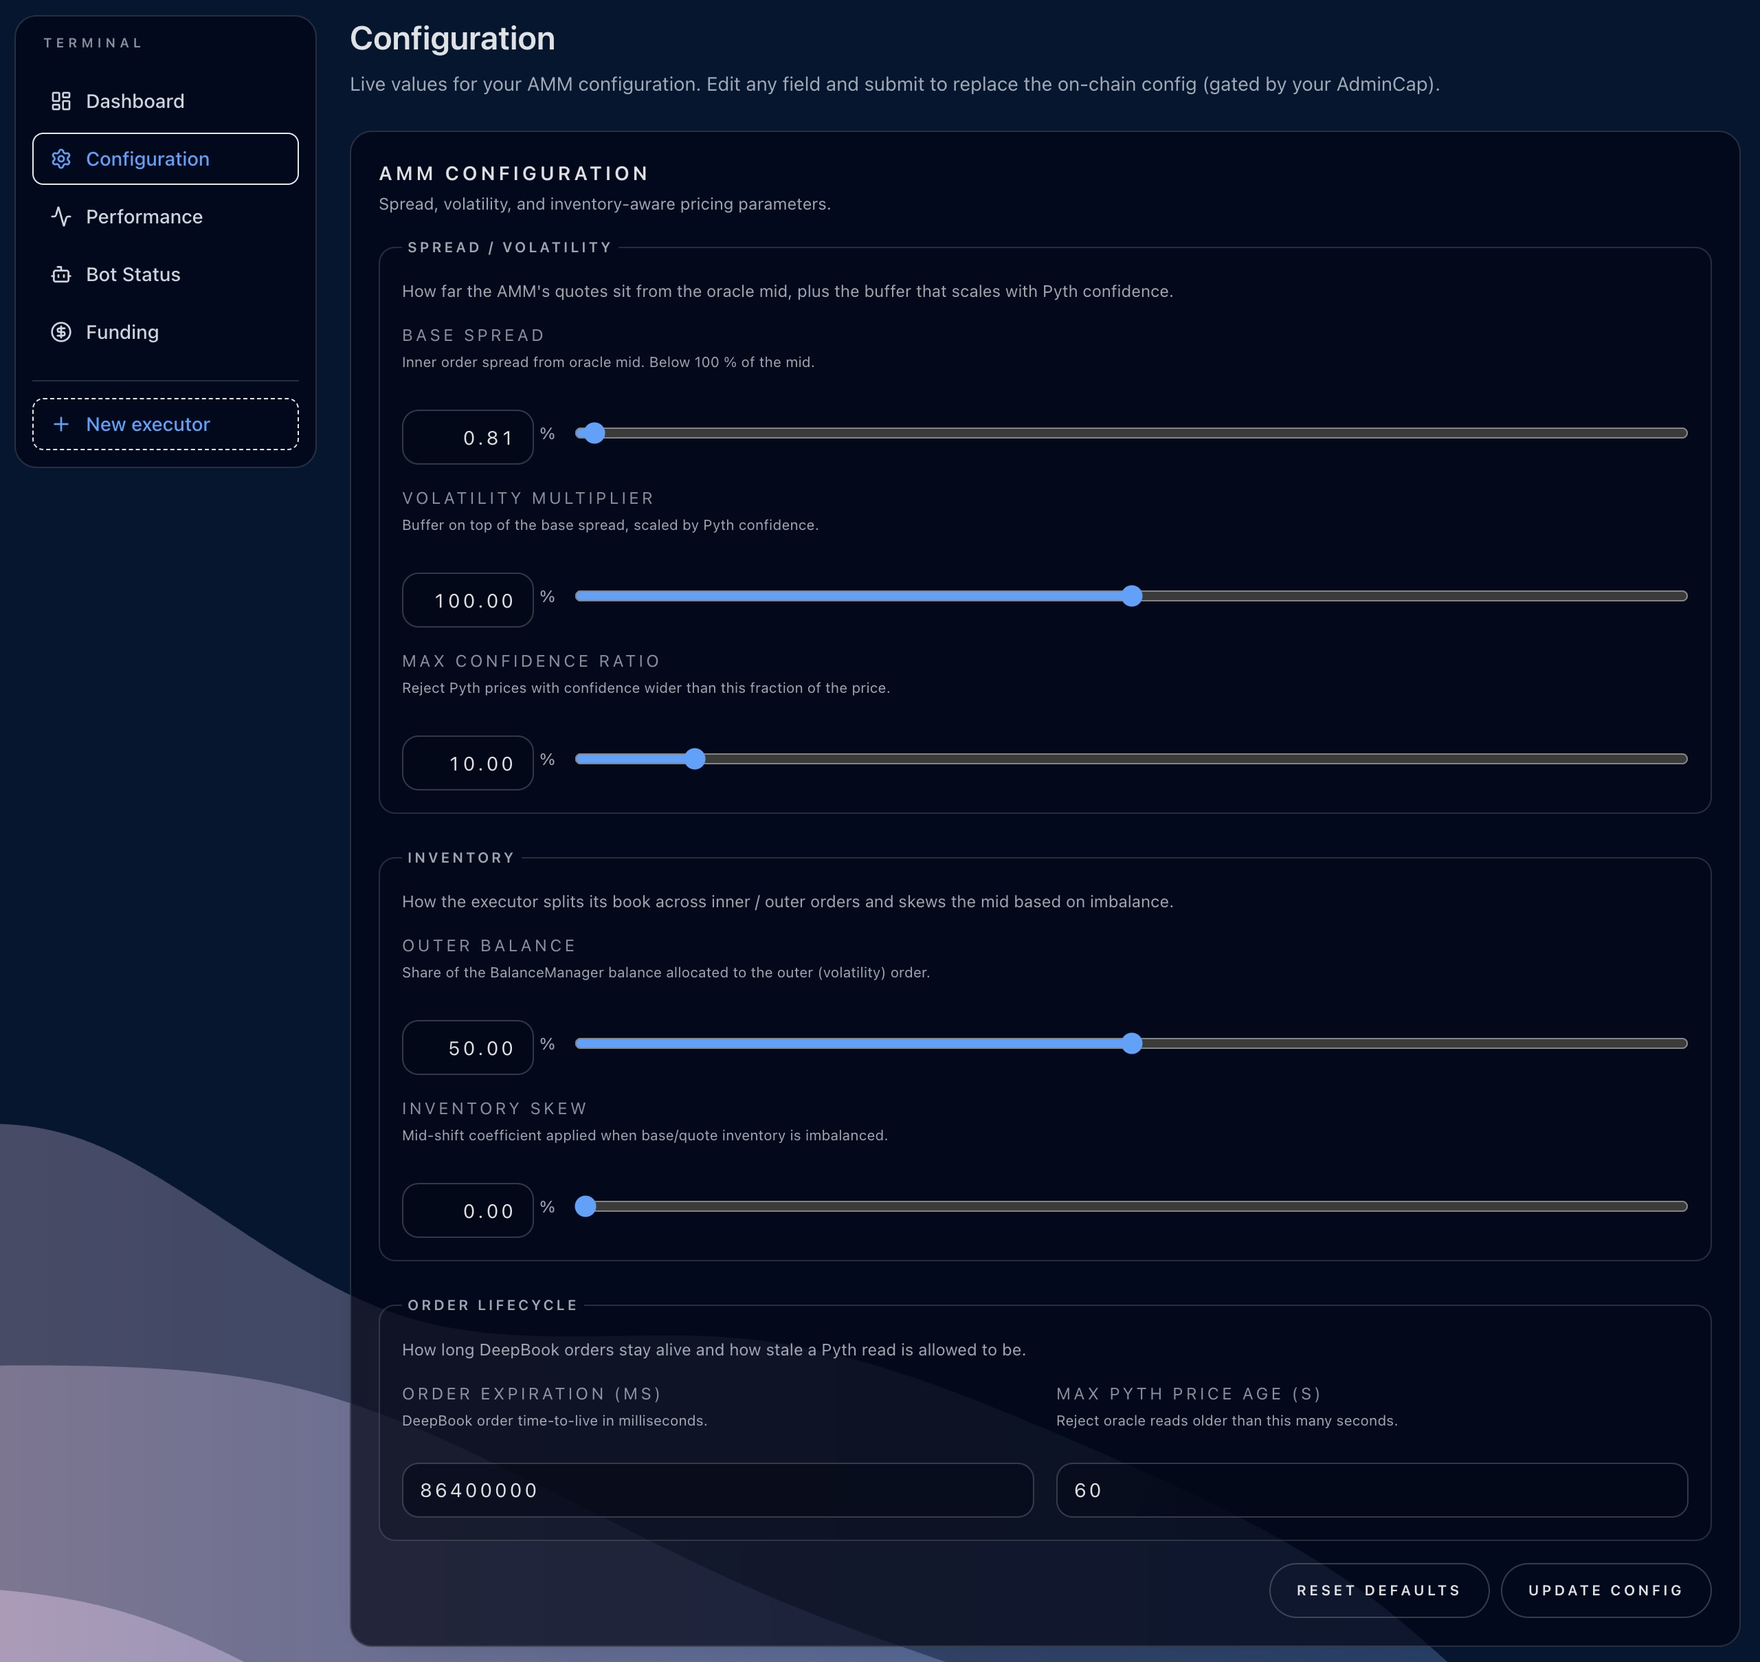
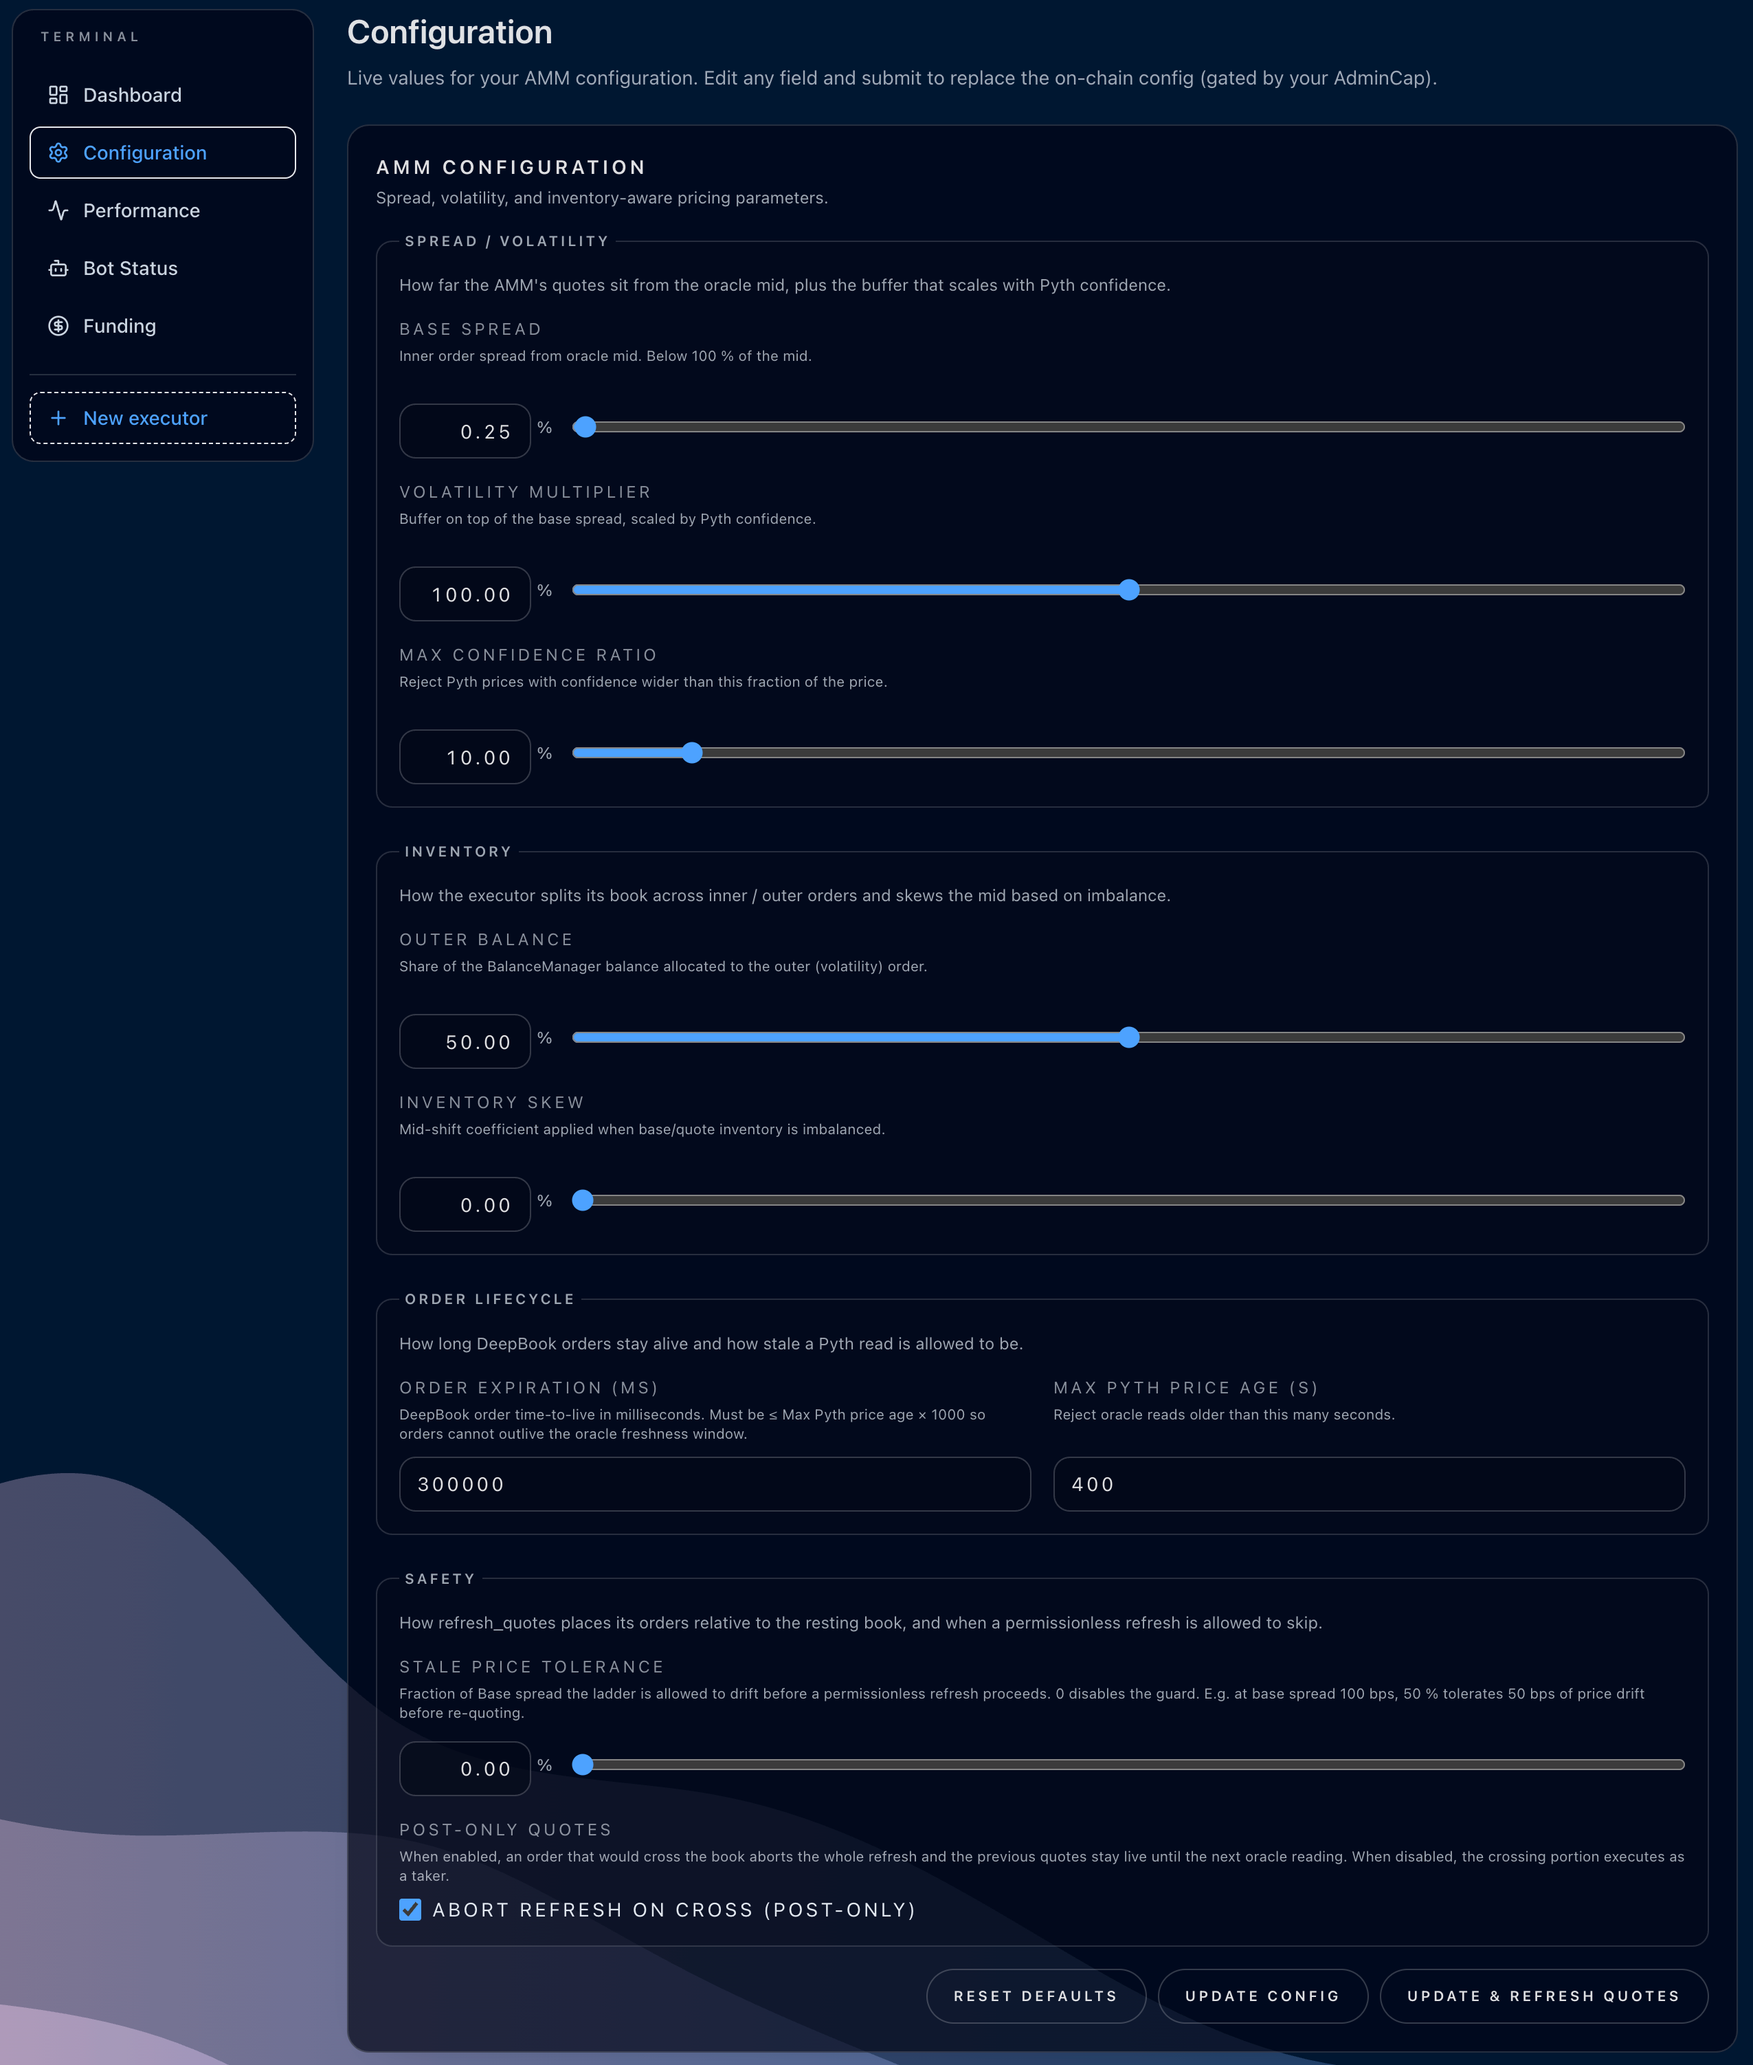
update docs and UI integration based on smart contract changes

diff --git a/packages/ui/src/app/helpers/ammConfigValidation.ts b/packages/ui/src/app/helpers/ammConfigValidation.ts
@@ -128,6 +128,36 @@ const validateField = (
   }
 }
 
+// Mirrors the Move-side `EOrderExpirationExceedsPriceAge` invariant in
+// `config::new`: order TTL must not exceed the oracle freshness window, or an
+// order can stay live priced against stale Pyth data.
+const validateOrderExpirationVsPriceAge = (
+  formState: AmmConfigFormState
+): { orderExpirationTimeMs?: string; maxPriceAgeSecs?: string } => {
+  try {
+    const orderExpirationTimeMs = parsePositiveU64(
+      formState.orderExpirationTimeMs.trim(),
+      "Order expiration time ms"
+    )
+    const maxPriceAgeSecs = parsePositiveU64(
+      formState.maxPriceAgeSecs.trim(),
+      "Max price age secs"
+    )
+    if (orderExpirationTimeMs > maxPriceAgeSecs * 1000n) {
+      const message = `Order expiration (${orderExpirationTimeMs.toString()} ms) must be ≤ Max price age × 1000 (${(maxPriceAgeSecs * 1000n).toString()} ms).`
+      return {
+        orderExpirationTimeMs: message,
+        maxPriceAgeSecs: message
+      }
+    }
+    return {}
+  } catch {
+    // Per-field validators already report the parse failure; skip the
+    // cross-field check until both inputs are individually valid.
+    return {}
+  }
+}
+
 export const buildAmmConfigFieldErrors = (
   formState: AmmConfigFormState
 ): AmmConfigFieldErrors => {
@@ -136,5 +166,14 @@ export const buildAmmConfigFieldErrors = (
     const error = validateField(key, formState[key])
     if (error) errors[key] = error
   }
+
+  const crossFieldErrors = validateOrderExpirationVsPriceAge(formState)
+  if (crossFieldErrors.orderExpirationTimeMs && !errors.orderExpirationTimeMs) {
+    errors.orderExpirationTimeMs = crossFieldErrors.orderExpirationTimeMs
+  }
+  if (crossFieldErrors.maxPriceAgeSecs && !errors.maxPriceAgeSecs) {
+    errors.maxPriceAgeSecs = crossFieldErrors.maxPriceAgeSecs
+  }
+
   return errors
 }

diff --git a/packages/ui/src/app/components/PriceChartCard.tsx b/packages/ui/src/app/components/PriceChartCard.tsx
@@ -296,10 +296,6 @@ const Sparkline = ({ points }: { points: SeriesPoint[] }) => {
   })
   if (currentSegment.length > 0) deepbookSegments.push(currentSegment.join(" "))
 
-  const lastDeepbookPoint = [...points]
-    .reverse()
-    .find((point) => point.deepbookValue !== undefined)
-
   // Build a band polygon for each contiguous run of points that has both an
   // ask (top) and bid (bottom) price defined. SVG polygons can't render gaps
   // so segments break wherever a side is missing (e.g. single-sided refresh).
@@ -446,9 +442,9 @@ const Sparkline = ({ points }: { points: SeriesPoint[] }) => {
               {points[lastIndex].oracleDisplay}
             </span>
           ) : undefined}
-          {isVisible("deepbook") && lastDeepbookPoint?.deepbookDisplay ? (
+          {isVisible("deepbook") && points[lastIndex].deepbookDisplay ? (
             <span className="font-semibold" style={{ color: DEEPBOOK_COLOR }}>
-              {lastDeepbookPoint.deepbookDisplay}
+              {points[lastIndex].deepbookDisplay}
             </span>
           ) : undefined}
         </div>

diff --git a/packages/domain/core/src/ptb/amm.ts b/packages/domain/core/src/ptb/amm.ts
@@ -315,6 +315,7 @@ export const buildUpdateConfigAndLocalnetRefreshTransaction = ({
   maxConfRatioBps,
   outerBalanceBps,
   inventorySkewBps,
+  stalePriceToleranceBps,
   postOnly
 }: {
   packageId: string
@@ -335,6 +336,7 @@ export const buildUpdateConfigAndLocalnetRefreshTransaction = ({
   maxConfRatioBps: bigint | number
   outerBalanceBps: bigint | number
   inventorySkewBps: bigint | number
+  stalePriceToleranceBps: bigint | number
   /**
    * When true, `refresh_quotes` places each order with DeepBook's `post_only` flag —
    * any order that would cross the resting book aborts the whole refresh and the
@@ -363,6 +365,7 @@ export const buildUpdateConfigAndLocalnetRefreshTransaction = ({
       transaction.pure.u64(maxConfRatioBps),
       transaction.pure.u64(outerBalanceBps),
       transaction.pure.u64(inventorySkewBps),
+      transaction.pure.u64(stalePriceToleranceBps),
       transaction.pure.bool(postOnly)
     ]
   })

diff --git a/packages/ui/src/app/components/AmmConfigForm.tsx b/packages/ui/src/app/components/AmmConfigForm.tsx
@@ -140,15 +140,16 @@ const GROUPS: GroupSpec[] = [
         kind: "numeric",
         key: "orderExpirationTimeMs",
         title: "Order expiration (ms)",
-        description: "DeepBook order time-to-live in milliseconds.",
-        placeholder: "86400000"
+        description:
+          "DeepBook order time-to-live in milliseconds. Must be ≤ Max Pyth price age × 1000 so orders cannot outlive the oracle freshness window.",
+        placeholder: "300000"
       },
       {
         kind: "numeric",
         key: "maxPriceAgeSecs",
         title: "Max Pyth price age (s)",
         description: "Reject oracle reads older than this many seconds.",
-        placeholder: "60"
+        placeholder: "300"
       }
     ]
   },

diff --git a/packages/domain/core/src/models/amm.ts b/packages/domain/core/src/models/amm.ts
@@ -20,8 +20,8 @@ export const PROP_AMM_EXECUTOR_SUFFIX = "::executor::PropAmmApp"
 
 export const MAX_BASE_SPREAD_BPS = "10000"
 
-export const DEFAULT_ORDER_EXPIRATION_TIME_MS = "86400000"
-export const DEFAULT_MAX_PRICE_AGE_SECS = "60"
+export const DEFAULT_ORDER_EXPIRATION_TIME_MS = "300000"
+export const DEFAULT_MAX_PRICE_AGE_SECS = "300"
 export const DEFAULT_MAX_CONF_RATIO_BPS = "1000"
 export const DEFAULT_OUTER_BALANCE_BPS = "5000"
 export const DEFAULT_INVENTORY_SKEW_BPS = "0"

diff --git a/docs/OVERVIEW.md b/docs/OVERVIEW.md
@@ -71,22 +71,76 @@ What you do here:
 ## /config — Update AMM config
 
 Live re-tune of the AMM parameters without recreating the executor.
-Everything you set on `/setup` is editable here; the form is grouped so
-spread/volatility, inventory, and order-lifecycle params don't crowd each
-other.
+Everything you set on `/setup` is editable here; the form is grouped into
+four sections so spread/volatility, inventory, order-lifecycle, and
+safety params don't crowd each other. BPS fields render as percent
+inputs with sliders; numeric fields take raw integers.
 
-![/config — Update config form grouped into Spread / Volatility, Inventory, Order Lifecycle. BPS fields show as percent inputs with sliders.](images/config.png)
+![/config — Update config form grouped into Spread / Volatility, Inventory, Order Lifecycle, Safety. BPS fields show as percent inputs with sliders.](images/config.png)
 
-What you do here:
+### Spread / Volatility
 
-- Adjust `base_spread_bps` / `volatility_multiplier_bps` to tighten or
-  loosen the rings.
-- Move `outer_balance_bps` to change the inner-vs-outer balance split.
-- Crank `inventory_skew_bps` up to make the AMM rebalance harder when one
-  side is heavy.
-- **Reset defaults** restores the form to the values from
-  `buildAmmConfigFormState()` without writing on chain — review before
-  hitting **Update config**.
+- **Base spread** (`base_spread_bps`) — inner-order distance from the
+  oracle mid, as a fraction of the mid (must be `< 100 %`).
+- **Volatility multiplier** (`volatility_multiplier_bps`) — extra buffer
+  added on top of the base spread for the outer order, scaled by the
+  Pyth confidence ratio. No upper cap.
+- **Max confidence ratio** (`max_conf_ratio_bps`) — refuses to quote
+  when the Pyth confidence-to-price ratio exceeds this fraction.
+
+### Inventory
+
+- **Outer balance** (`outer_balance_bps`) — share of the
+  `BalanceManager` balance allocated to the outer (volatility) order;
+  the rest goes to the inner order.
+- **Inventory skew** (`inventory_skew_bps`) — mid-shift coefficient
+  applied when the base/quote inventory split is imbalanced. `0`
+  disables the skew.
+
+### Order Lifecycle
+
+- **Order expiration (ms)** (`order_expiration_time_ms`) — DeepBook
+  order time-to-live.
+- **Max Pyth price age (s)** (`max_price_age_secs`) — rejects oracle
+  reads older than this many seconds.
+
+These two fields are **cross-validated** to mirror the Move-side
+`EOrderExpirationExceedsPriceAge` check in `config::new`: order TTL
+must be `≤ max_price_age × 1000`, otherwise an order could remain live
+on the book priced against a stale oracle read. The form blocks submit
+and surfaces the violation on both inputs until the relation holds.
+
+### Safety
+
+- **Stale price tolerance** (`stale_price_tolerance_bps`) — interpreted
+  as a fraction of the base spread, this is how far the ladder is
+  allowed to drift before a permissionless refresh actually re-quotes.
+  `0` disables the guard and every Pyth tick forces a refresh; higher
+  values preserve DeepBook FIFO priority by skipping refreshes that
+  would barely move the ladder.
+- **Post-only quotes** (`post_only`) — when on, any order that would
+  cross the resting book aborts the entire refresh and the previous
+  ladder stays live. When off, the crossing portion executes as a taker
+  against external liquidity.
+
+### Buttons
+
+- **Reset defaults** — replays the values from
+  `buildAmmConfigFormState()` through the same per-field setters the
+  form uses, so dirty-tracking and validation re-run as if you typed
+  them. Does not write on chain.
+- **Update config** — submits `executor::update_config<Base, Quote>`
+  followed by `cancel_orders_after_update` in the same PTB. The hot-
+  potato `RefreshTicket` returned by `update_config` forces the live
+  ladder to be cancelled before the transaction settles, so no order
+  can remain on the book quoting under the replaced configuration.
+- **Update & refresh quotes** (localnet only) — same `update_config`
+  call, but instead of cancelling the ladder the PTB re-stamps the mock
+  Pyth `PriceInfoObject`s with their current magnitudes and an advanced
+  timestamp, then re-quotes through `refresh_quotes_pyth_after_update`.
+  Lets you see the new spread/skew settings reflected in fresh orders
+  without waiting for the maintenance bot or a real Pyth tick. Disabled
+  on non-localnet networks and when the executor is paused.
 
 ## /bot — Bot Status & manual refresh
 

diff --git a/README.md b/README.md
@@ -154,13 +154,14 @@ you don't need to manually transfer SUI to it.
 ### Run the market-activity bot
 
 ```bash
-# Defaults: 2 s tick, ±$0.10 price walk per tick around $1.50, ≤ 1 SUI per
-# sell, ≤ 2 USDC per buy. Override any of them via CLI flags.
+# Defaults: 2 s tick, ±$0.05 price walk per tick around $1.50, ≤ 1.5 USDC
+# per tick (the base-side cap on sell ticks is derived each tick as
+# `max-quantity-quote / currentPriceDollars` so dollar-denominated flow
+# stays symmetric across the price walk). Override any of them via CLI flags.
 pnpm --filter dapp bot:market-activity \
   --interval-ms 2000 \
   --max-price-delta 0.10 \
-  --max-base 1 \
-  --max-quote 2
+  --max-quantity-quote 2
 ```
 
 Pass `--max-price-delta 0` to freeze the price (only random orders flow);
